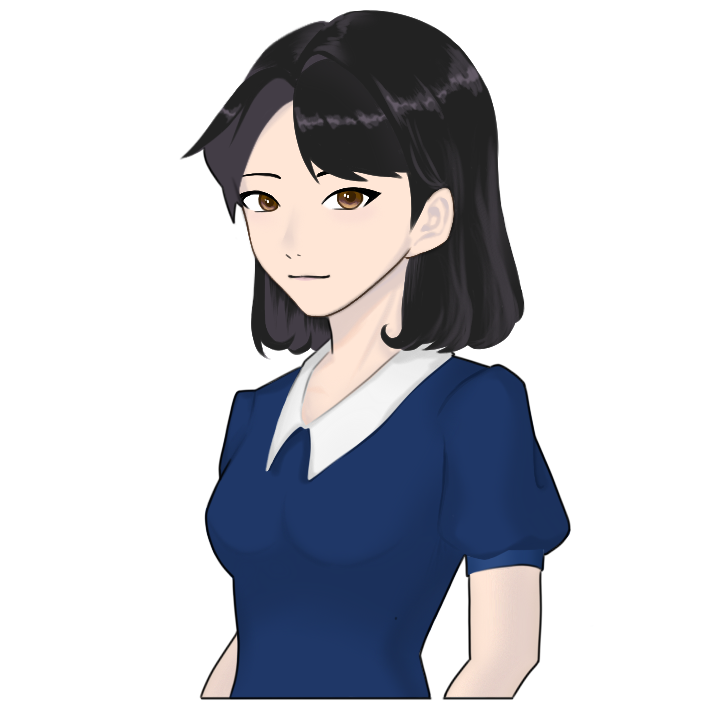
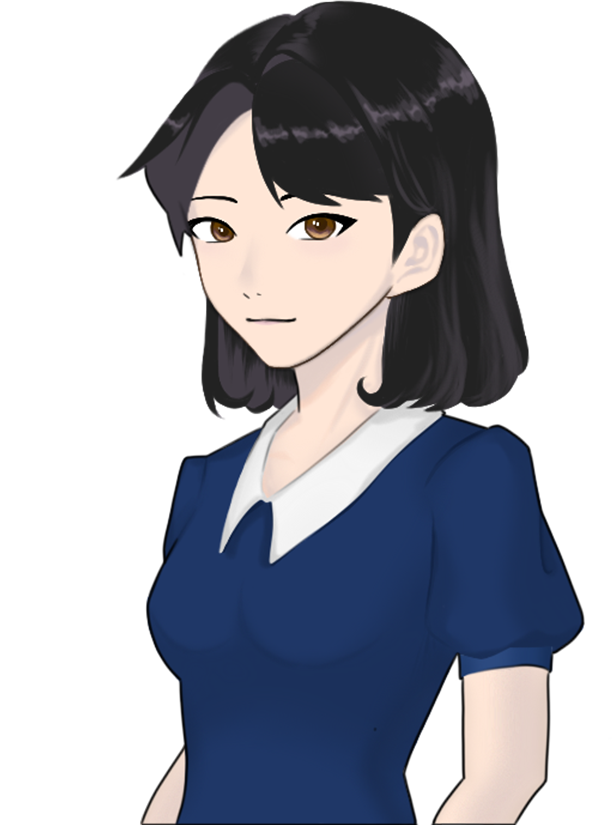
feat: undate art resources and create new NPCs.

Changed region(s): [[0.1863, 0.0, 0.9624, 1.0], [0.683, 0.6507, 0.7141, 0.6817], [0.6209, 0.6507, 0.652, 0.6817]]

diff --git a/Assets/Scripts/Scene/NPCs.cs b/Assets/Scripts/Scene/NPCs.cs
@@ -7,6 +7,8 @@ public class NPCs : MonoBehaviour
     Dictionary<string, GameObject> dic_NPCs = new Dictionary<string, GameObject>();
 
     public GameObject rui;
+    public GameObject cishan;
+    public GameObject alex;
 
 
     public void Init()
@@ -14,6 +16,9 @@ public class NPCs : MonoBehaviour
         Show();
 
         dic_NPCs.Add("Rui",rui);
+        dic_NPCs.Add("Cishan", cishan);
+        dic_NPCs.Add("Alex", alex);
+
 
 
         foreach (var item in dic_NPCs.Values)
